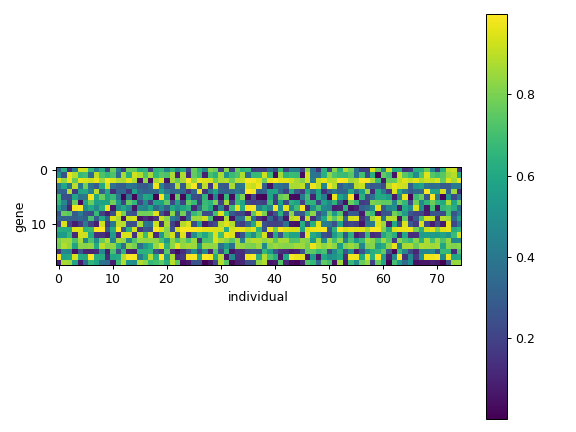
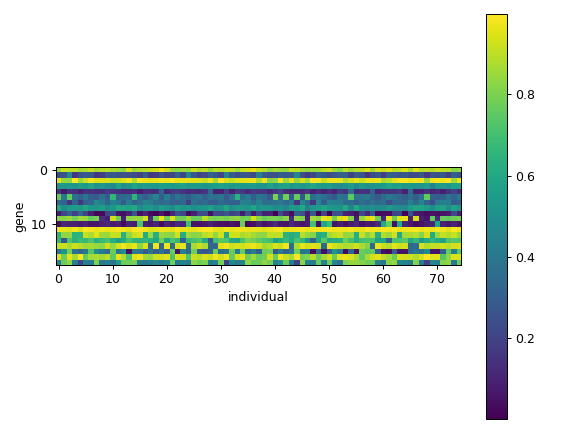
dead robots now stay where they die and are no longer visible to other robots

Changed region(s): [[0.0938, 0.3912, 0.8125, 0.6319]]

diff --git a/evolve.py b/evolve.py
@@ -154,7 +154,8 @@ def simulate_trial(controllers, trial_index, generating_animation=False):
         DRAIN_RATE = 0.5
         # water_b = water_b - DT * DRAIN_RATE
         for i, item in enumerate(food_b):
-            food_b[i] = item - DT * DRAIN_RATE
+            if robots[i].alive:
+                food_b[i] = item - DT * DRAIN_RATE
 
         # water_b -= (robot.lm**2) * DT * 0.01
         # food_b  -= (robot.rm**2) * DT * 0.01
@@ -170,8 +171,11 @@ def simulate_trial(controllers, trial_index, generating_animation=False):
         
         # tell the robot body what the controller says its motors should be
         for i in range(len(controllers)):
-            robots[i].lm, robots[i].rm = controllers[i].get_motor_output((food_b[i], 1))
-
+            if robots[i].alive:
+                robots[i].lm, robots[i].rm = controllers[i].get_motor_output((food_b[i], 1))
+            else:
+                robots[i].lm = 0
+                robots[i].rm = 0
             robots[i].calculate_derivative()  # calculate the way that the robot's state it changing
             robots[i].euler_update(DT=DT)  # apply that state change (Euler integration step)
 
@@ -190,37 +194,42 @@ def simulate_trial(controllers, trial_index, generating_animation=False):
         
         #
         # check for ROBOT collisions
-        #
+        #                    
         
-        #for i in range(len(controllers)):
-        #    for light in robots[i].otherRobots:
-        #        if (robots[i].x - light.x) ** 2 + (robots[i].y - light.y) ** 2 < ENTITY_RADIUS ** 2:
-        #            food_b[i] += 20.0 * DT
-        #            controllers[i].trial_data['eaten_FOOD_positions'].append((light.x, light.y))
-        #            # Add code for determining whole wins the fight
-                    
-        
+        # for i in range(len(controllers)):
+        #     for other_robot in robots[i].otherRobots:
+        #         #If collision detected initiate combat
+        #         if (robots[i].x - other_robot.x) ** 2 + (robots[i].y - other_robot.y) ** 2 < ENTITY_RADIUS ** 2:
+        #             other_robot_index = robots.index(other_robot)
+        #             victory_chance = np.random.rand()
+        #             if victory_chance <= 0.5:
+        #                 robots[i].x=10000
+        #                 robots[i].y=10000
+        #                 food_b[i] = 0           #dead battery
+        #                 food_b[other_robot_index] += 20 * DT
+        #             else:
+        #                 other_robot.x=10000
+        #                 other_robot.y=10000
+        #                 food_b[other_robot_index] = 0
+        #                 food_b[i] += 20 * DT
+
         for i in range(len(controllers)):
             for other_robot in robots[i].otherRobots:
                 #If collision detected initiate combat
                 if (robots[i].x - other_robot.x) ** 2 + (robots[i].y - other_robot.y) ** 2 < ENTITY_RADIUS ** 2:
+                    if robots[i].alive == False or other_robot.alive == False:
+                        continue
                     other_robot_index = robots.index(other_robot)
-                    victory_chance = np.random.rand()
-                    if victory_chance <= 0.5:
-                        robots[i].x=10000
-                        robots[i].y=10000
+                    success = np.random.rand()
+                    if success <= 0.5:      #50% chance to win confrontation
+                        robots[i].alive = False
                         food_b[i] = 0           #dead battery
                         food_b[other_robot_index] += 20 * DT
                     else:
-                        other_robot.x=10000
-                        other_robot.y=10000
+                        other_robot.alive = False
                         food_b[other_robot_index] = 0
                         food_b[i] += 20 * DT
-                        
-
-
-        
-        
+                                
         """
         #
         # check for WATER collisions
@@ -243,14 +252,26 @@ def simulate_trial(controllers, trial_index, generating_animation=False):
         """
 
         
-        """
+        
         #
-        # DEATH -- if either of the batteries reaches 0, the trial is over
+        # DEATH -- if all robots batteries reaches 0, the trial is over
         #
-        if food_b < 0.0: # or water_b < 0.0:
-            food_b = water_b = 0.0
+        for i in range(len(controllers)):
+            if food_b[i] == 0 and robots[i].alive:
+                robots[i].alive=False               #robot dies when battery is 0
+                for j in range(len(robots)):        #remove dead robot from the other robots vision
+                    robots[j].remove_robot(robots[i])
+        
+        all_dead = True
+        for i in range(len(robots)):
+            if robots[i].alive:
+                all_dead=False
+                break
+        
+        if all_dead:
             break
-        """
+            
+        
 
     # record the position of the entities still not eaten at end of trial (used for plotting)
     for i in range(len(controllers)):
